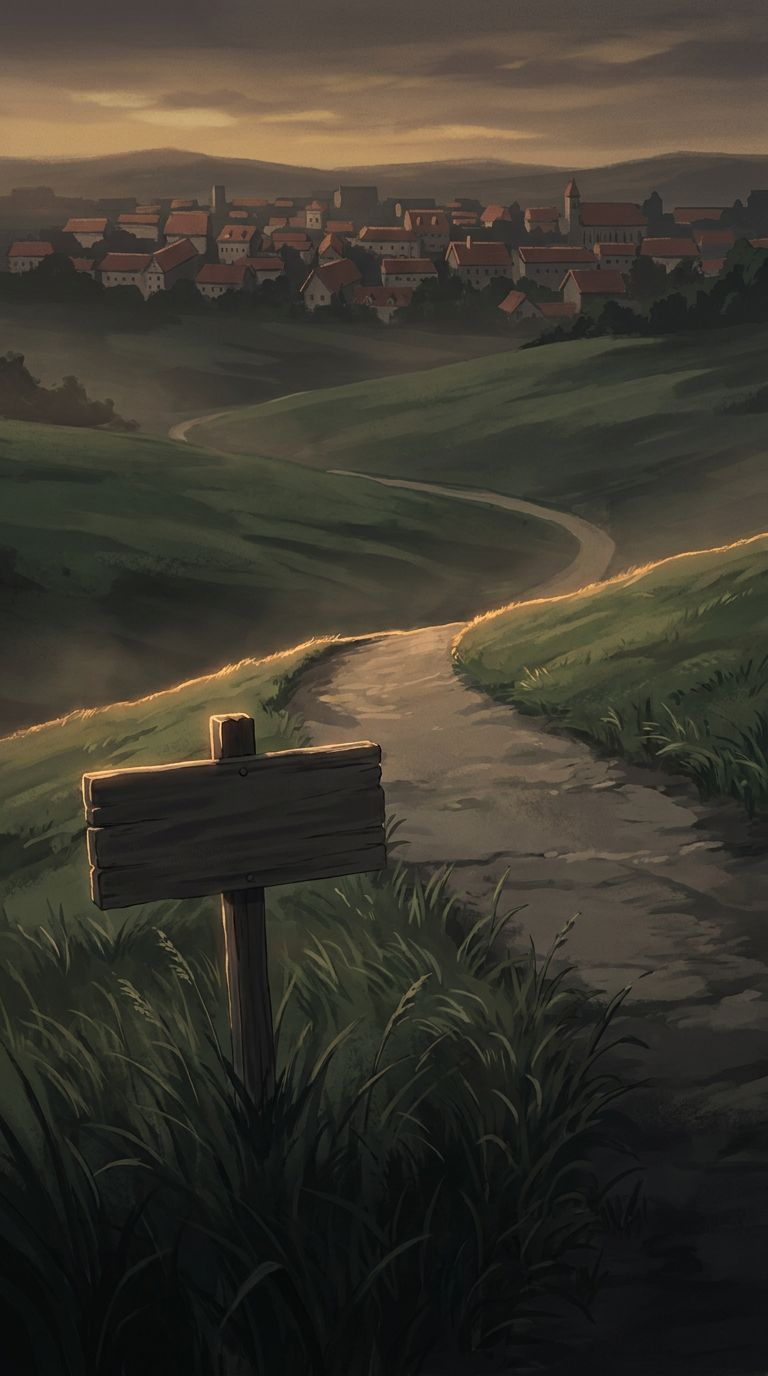
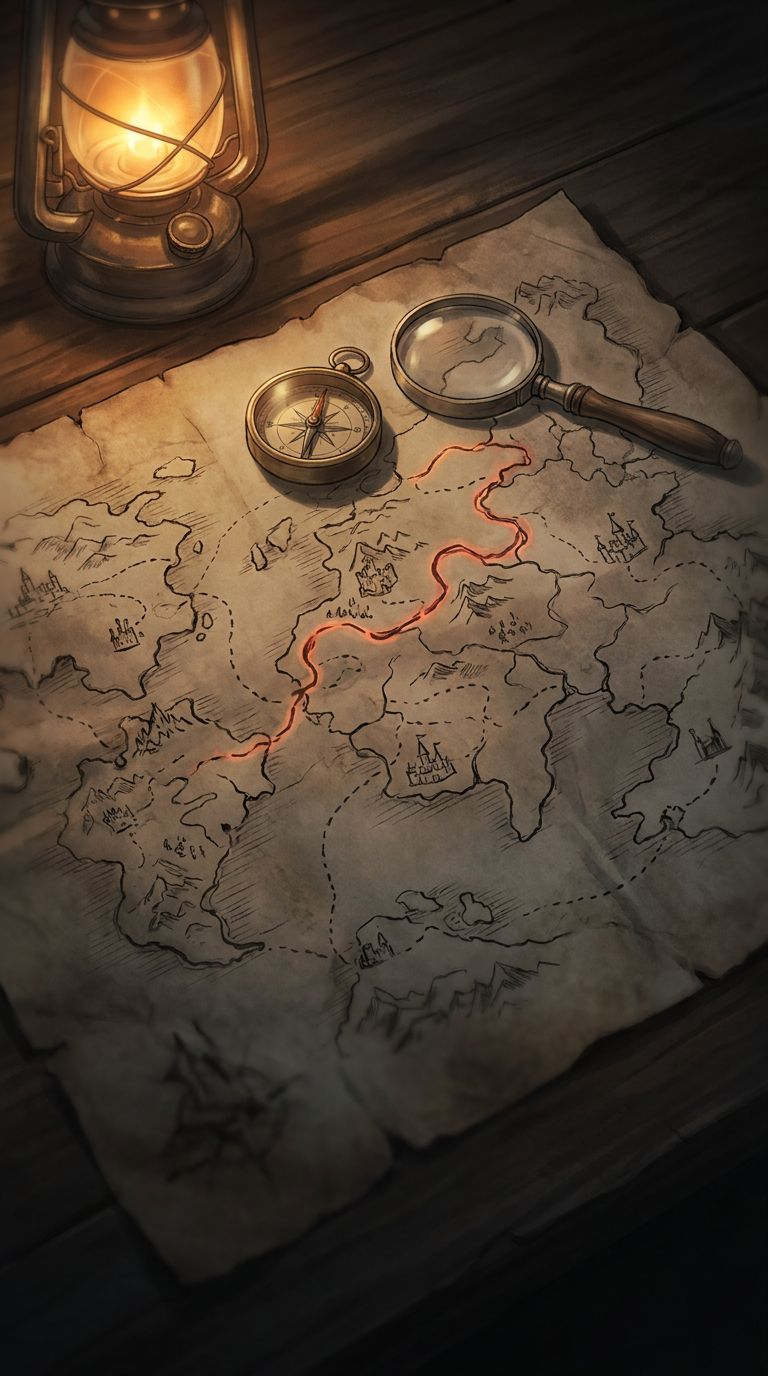
Map: place cards instead of a stack of identical rows
── WHAT WAS WRONG ──
A list of full-width rows: a name on the left, a line of sprites floating on
the card background, a caught count and a Go button pushed to the far right
of ~900px of empty space. Every row identical — a town with nothing in it
looked exactly like a route with six species on it — and at that width the
eye had to cross the whole dialog to connect a name to its button.

── WHAT IT IS ──
A grid of place cards. Each says what kind of place it is, what lives there,
how much of it you have caught, and how to go, in that order, in something
you can read without moving your eyes across the screen. Three columns in
the hub, one on a phone.

COLOUR BY PLACE TYPE — route, town, cave, water, raid. That is the first
thing anyone wants off a map and the only thing the old list did not show at
all. A hue and nothing else: same card, same spacing, same weights. Every
colour checked in both roles it takes — dark text on the Go button and the
colour as text on the card — 7.27:1 at worst (caves) and 6.71:1 at worst
respectively. Nothing fails AA.

The encounter sprites sit on a sunken plate with the place's colour behind
them. As a bare row on the card they read as decoration; in a well they read
as the reason to go.

Progress gets a BAR as well as the fraction. "5/5" and "1/5" are the same
shape at a glance; a bar is not.

Where you are gets a full gold ring rather than a tint — it is the one card
in the grid a player is looking for — and its Go button goes muted rather
[…]

diff --git a/game/src/components/routeMap.css b/game/src/components/routeMap.css
@@ -1,0 +1,219 @@
+/* =====================================================================
+   THE MAP
+
+   It was a stack of full-width rows: a name on the left, a line of
+   sprites floating on the card background, a caught count and a Go
+   button pushed to the far right of 900px of empty space. Every row
+   identical — a town with nothing in it looked exactly like a route with
+   six species on it, and at that width the eye had to travel the whole
+   line to connect the name to its button.
+
+   A grid of place cards instead. Each one says what kind of place it is,
+   what lives there, how much of it you have caught, and how to go — in
+   that order, in a card you can read without moving your eyes across the
+   dialog.
+
+   ── COLOUR BY PLACE ──
+   Route, town, cave, water, raid. That is the first thing a player wants
+   from a map and the only thing the old list did not show at all. A hue
+   per type and nothing else: same card, same spacing, same weights.
+
+   Overrides live here rather than in app.css because these classes are
+   defined there for the mobile shell too, and this file is loaded after —
+   selectors are two classes deep so they win on specificity rather than
+   on load order, which is the thing that keeps biting in this codebase.
+   ===================================================================== */
+.route-card-list .route-card-grid {
+  display: grid;
+  grid-template-columns: repeat(auto-fill, minmax(268px, 1fr));
+  align-content: start;
+  gap: 10px;
+  padding: 2px;
+}
+
+.route-card-list .route-card {
+  --place: #94a3b8;
+  --place-dim: rgba(148, 163, 184, 0.12);
+
+  position: relative;
+  display: flex;
+  flex-direction: column;
+  gap: 9px;
+  padding: 12px 13px;
+  border-radius: 11px;
+  overflow: hidden;
+  background:
+    linear-gradient(145deg, var(--place-dim) 0%, transparent 58%),
+    var(--panel-2);
+  box-shadow: inset 0 0 0 1px var(--border);
+}
+/* The place's colour, as an edge. One saturated element per card. */
+.route-card-list .route-card::before {
+  content: "";
+  position: absolute;
+  inset: 0 auto 0 0;
+  width: 3px;
+  background: var(--place);
+}
+
+.route-card-list .route-card[data-type="route"] { --place: #86efac; --place-dim: rgba(134, 239, 172, 0.11); }
+.route-card-list .route-card[data-type="town"]  { --place: #fbbf24; --place-dim: rgba(251, 191, 36, 0.11); }
+.route-card-list .route-card[data-type="cave"]  { --place: #a78bfa; --place-dim: rgba(167, 139, 250, 0.12); }
+.route-card-list .route-card[data-type="water"] { --place: #38bdf8; --place-dim: rgba(56, 189, 248, 0.12); }
+.route-card-list .route-card[data-type="raid"]  { --place: #f472b6; --place-dim: rgba(244, 114, 182, 0.13); }
+
+/* Where you are. A full ring rather than a tint — this is the one card in
+   the grid a player is looking FOR. */
+.route-card-list .route-card.current {
+  box-shadow: inset 0 0 0 2px var(--gold);
+  background: linear-gradient(145deg, rgba(251, 191, 36, 0.14) 0%, transparent 58%), var(--panel-2);
+}
+/* Locked places stay on the map. Half the point of a map is what you have
+   not reached yet, and a list that grows silently never shows you that. */
+.route-card-list .route-card.locked { filter: grayscale(1); opacity: 0.45; }
+
+.route-card-list .route-card-head {
+  display: flex;
+  align-items: center;
+  gap: 8px;
+  min-width: 0;
+}
+.route-card-list .route-card-icon {
+  flex: 0 0 auto;
+  display: inline-flex;
+  align-items: center;
+  justify-content: center;
+  width: 26px;
+  height: 26px;
+  border-radius: 8px;
+  background: rgba(0, 0, 0, 0.3);
+  box-shadow: inset 0 0 0 1px var(--place);
+  color: var(--place);
+  font-size: 13px;
+}
+.route-card-list .route-card-name {
+  flex: 1 1 auto;
+  min-width: 0;
+  font-family: var(--font-display);
+  font-size: 13.5px;
+  font-weight: 700;
+  line-height: 1.2;
+  overflow: hidden;
+  text-overflow: ellipsis;
+  white-space: nowrap;
+}
+.route-card-list .route-card-current-badge {
+  flex: 0 0 auto;
+  padding: 2px 7px;
+  border-radius: 999px;
+  background: var(--gold);
+  color: #0a0a0b;
+  font-family: var(--font-display);
+  font-size: 8.5px;
+  font-weight: 800;
+  letter-spacing: 0.11em;
+  text-transform: uppercase;
+}
+
+/* ── What lives here ───────────────────────────────────────────────
+   On its own sunken plate with the place's colour behind it. As a bare
+   row on the card the sprites read as decoration; sunk into a well they
+   read as the reason to go. */
+.route-card-list .route-card-mons {
+  display: flex;
+  flex-wrap: wrap;
+  align-items: center;
+  gap: 1px;
+  min-height: 40px;
+  padding: 5px 7px;
+  border-radius: 8px;
+  background:
+    radial-gradient(120% 140% at 50% 130%, var(--place-dim) 0%, transparent 70%),
+    rgba(0, 0, 0, 0.26);
+  box-shadow: inset 0 0 0 1px var(--border);
+}
+.route-card-list .route-card-mon { display: inline-flex; }
+.route-card-list .route-card-mon img { display: block; filter: drop-shadow(0 2px 3px rgba(0,0,0,0.5)); }
+.route-card-list .route-card-mon-mystery {
+  display: inline-flex;
+  align-items: center;
+  justify-content: center;
+  width: 26px;
+  height: 26px;
+  color: var(--text-dim);
+  font-size: 13px;
+  font-weight: 700;
+}
+.route-card-list .route-card-mon-more {
+  margin-left: 4px;
+  padding: 2px 7px;
+  border-radius: 999px;
+  background: rgba(255, 255, 255, 0.07);
+  font-size: 10.5px;
+  font-weight: 700;
+  font-variant-numeric: tabular-nums;
+  color: var(--text-muted);
+}
+
+/* ── The foot ──────────────────────────────────────────────────────
+   Progress and the action on one line, pinned to the bottom so every
+   card in a row ends together however many species it holds. */
+.route-card-list .route-card-foot {
+  margin-top: auto;
+  display: flex;
+  align-items: center;
+  gap: 10px;
+}
+/* A bar, not just "5/5 Caught". The number alone made a fresh route and a
+   finished one look the same until you read both halves of it. */
+.route-card-list .route-card-progress {
+  flex: 1 1 auto;
+  min-width: 0;
+  display: flex;
+  flex-direction: column;
+  gap: 4px;
+  font-size: 10.5px;
+  font-variant-numeric: tabular-nums;
+  color: var(--text-dim);
+}
+.route-card-list .route-card-bar {
+  height: 4px;
+  border-radius: 999px;
+  background: rgba(255, 255, 255, 0.08);
+  overflow: hidden;
+}
+.route-card-list .route-card-bar span {
+  display: block;
+  height: 100%;
+  border-radius: 999px;
+  background: var(--place);
+}
+.route-card-list .route-card-bar.is-done span { background: #86efac; }
+
+.route-card-list .route-card-go {
+  flex: 0 0 auto;
+  min-height: var(--ctl-h-sm, 26px);
+  padding: 0 16px;
+  border: 0;
+  border-radius: var(--ctl-r, 6px);
+  background: var(--place);
+  color: #0a0a0b;
+  font-family: var(--font-display);
+  font-size: 12px;
+  font-weight: 800;
+  cursor: pointer;
+  transition: filter 120ms, transform 120ms, opacity 120ms;
+}
+.route-card-list .route-card-go:hover:not(:disabled) { filter: brightness(1.12); transform: translateY(-1px); }
+.route-card-list .route-card-go:focus-visible { outline: 2px solid var(--ctl-focus); outline-offset: 2px; }
+.route-card-list .route-card-go:disabled { opacity: 0.4; cursor: not-allowed; }
+/* You are already here. Muted rather than removed, so the card keeps the
+   same shape as the ones either side of it. */
+.route-card-list .route-card.current .route-card-go {
+  background: rgba(255, 255, 255, 0.08);
+  color: var(--text-muted);
+}
+
+@media (prefers-reduced-motion: reduce) {
+  .route-card-list .route-card-go:hover:not(:disabled) { transform: none; }
+}

diff --git a/game/src/components/RouteCardList.tsx b/game/src/components/RouteCardList.tsx
@@ -10,6 +10,7 @@ import {
 } from "../data/raidLegendaries";
 import { PokemonSprite } from "./Sprite";
 import "./raidTiers.css";
+import "./routeMap.css";
 import { pokemonTable } from "../data/pokemon";
 import { useT } from "../i18n/useT";
 import { IconHome, IconMountain, IconLeaf, IconIsland } from "./Icon";
@@ -167,7 +168,14 @@ function RouteCard({ route, onTravel }: { route: Route; onTravel: (id: string) =
   const caughtCount = enc.filter((e) => state.pokedexCaught.includes(e.speciesKey)).length;
 
   return (
-    <div className={`route-card ${current ? "current" : ""} ${!unlocked ? "locked" : ""}`}>
+    <div
+      className={`route-card ${current ? "current" : ""} ${!unlocked ? "locked" : ""}`}
+      // The kind of place, for the card's colour. It was the first thing a
+      // player wants off a map and the only thing the old list did not show
+      // at all — a town with nothing in it looked exactly like a route with
+      // six species on it.
+      data-type={route.type}
+    >
       <div className="route-card-head">
         <span className="route-card-icon">{iconForType(route.type)}</span>
         <strong className="route-card-name" title={unlocked ? route.name : undefined}>{unlocked ? route.name : t("???")}</strong>
@@ -229,19 +237,29 @@ function RouteCard({ route, onTravel }: { route: Route; onTravel: (id: string) =
               )}
             </div>
           )}
-          {enc.length > 0 && (
-            <div className="route-card-progress dim small">
-              {caughtCount}/{enc.length} {t("Caught")}
-            </div>
-          )}
-          <button
-            type="button"
-            className={`g-btn-small ${current ? "g-btn-ghost" : "g-btn-primary"}`}
-            disabled={current}
-            onClick={() => onTravel(route.id)}
-          >
-            {current ? t("Here") : t("Go")}
-          </button>
+          {/* Progress and the action on one line, pinned to the bottom, so
+              every card in a row ends together however many species it
+              holds. */}
+          <div className="route-card-foot">
+            {enc.length > 0 && (
+              <div className="route-card-progress">
+                <span>{caughtCount}/{enc.length} {t("Caught")}</span>
+                {/* A bar as well as the fraction. "5/5" and "1/5" are the
+                    same shape at a glance; a bar is not. */}
+                <span className={`route-card-bar${caughtCount >= enc.length ? " is-done" : ""}`}>
+                  <span style={{ width: `${(caughtCount / enc.length) * 100}%` }} />
+                </span>
+              </div>
+            )}
+            <button
+              type="button"
+              className="route-card-go"
+              disabled={current}
+              onClick={() => onTravel(route.id)}
+            >
+              {current ? t("Here") : t("Go")}
+            </button>
+          </div>
         </>
       ) : (
         <ul className="route-card-reqs">
